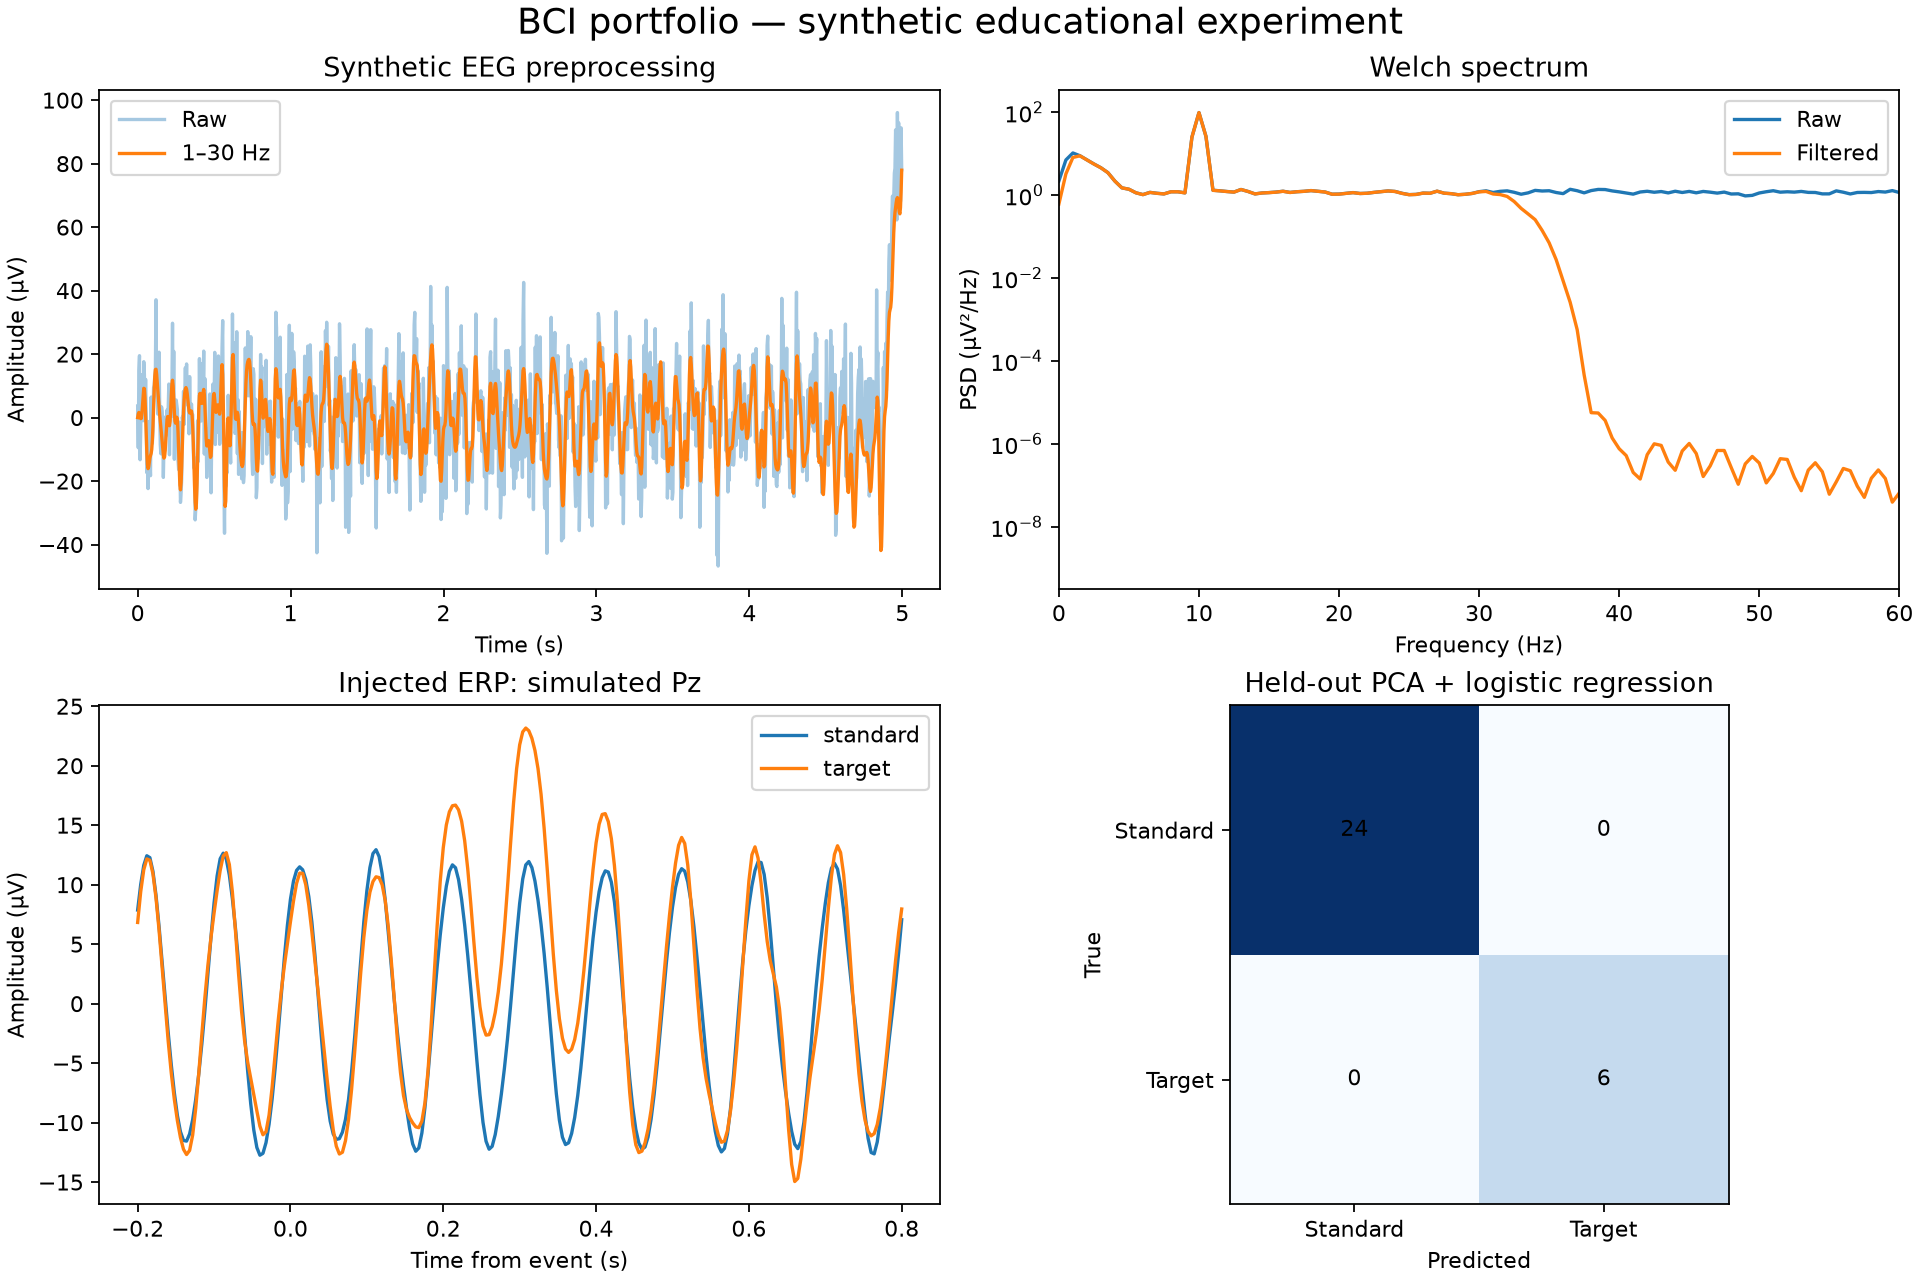
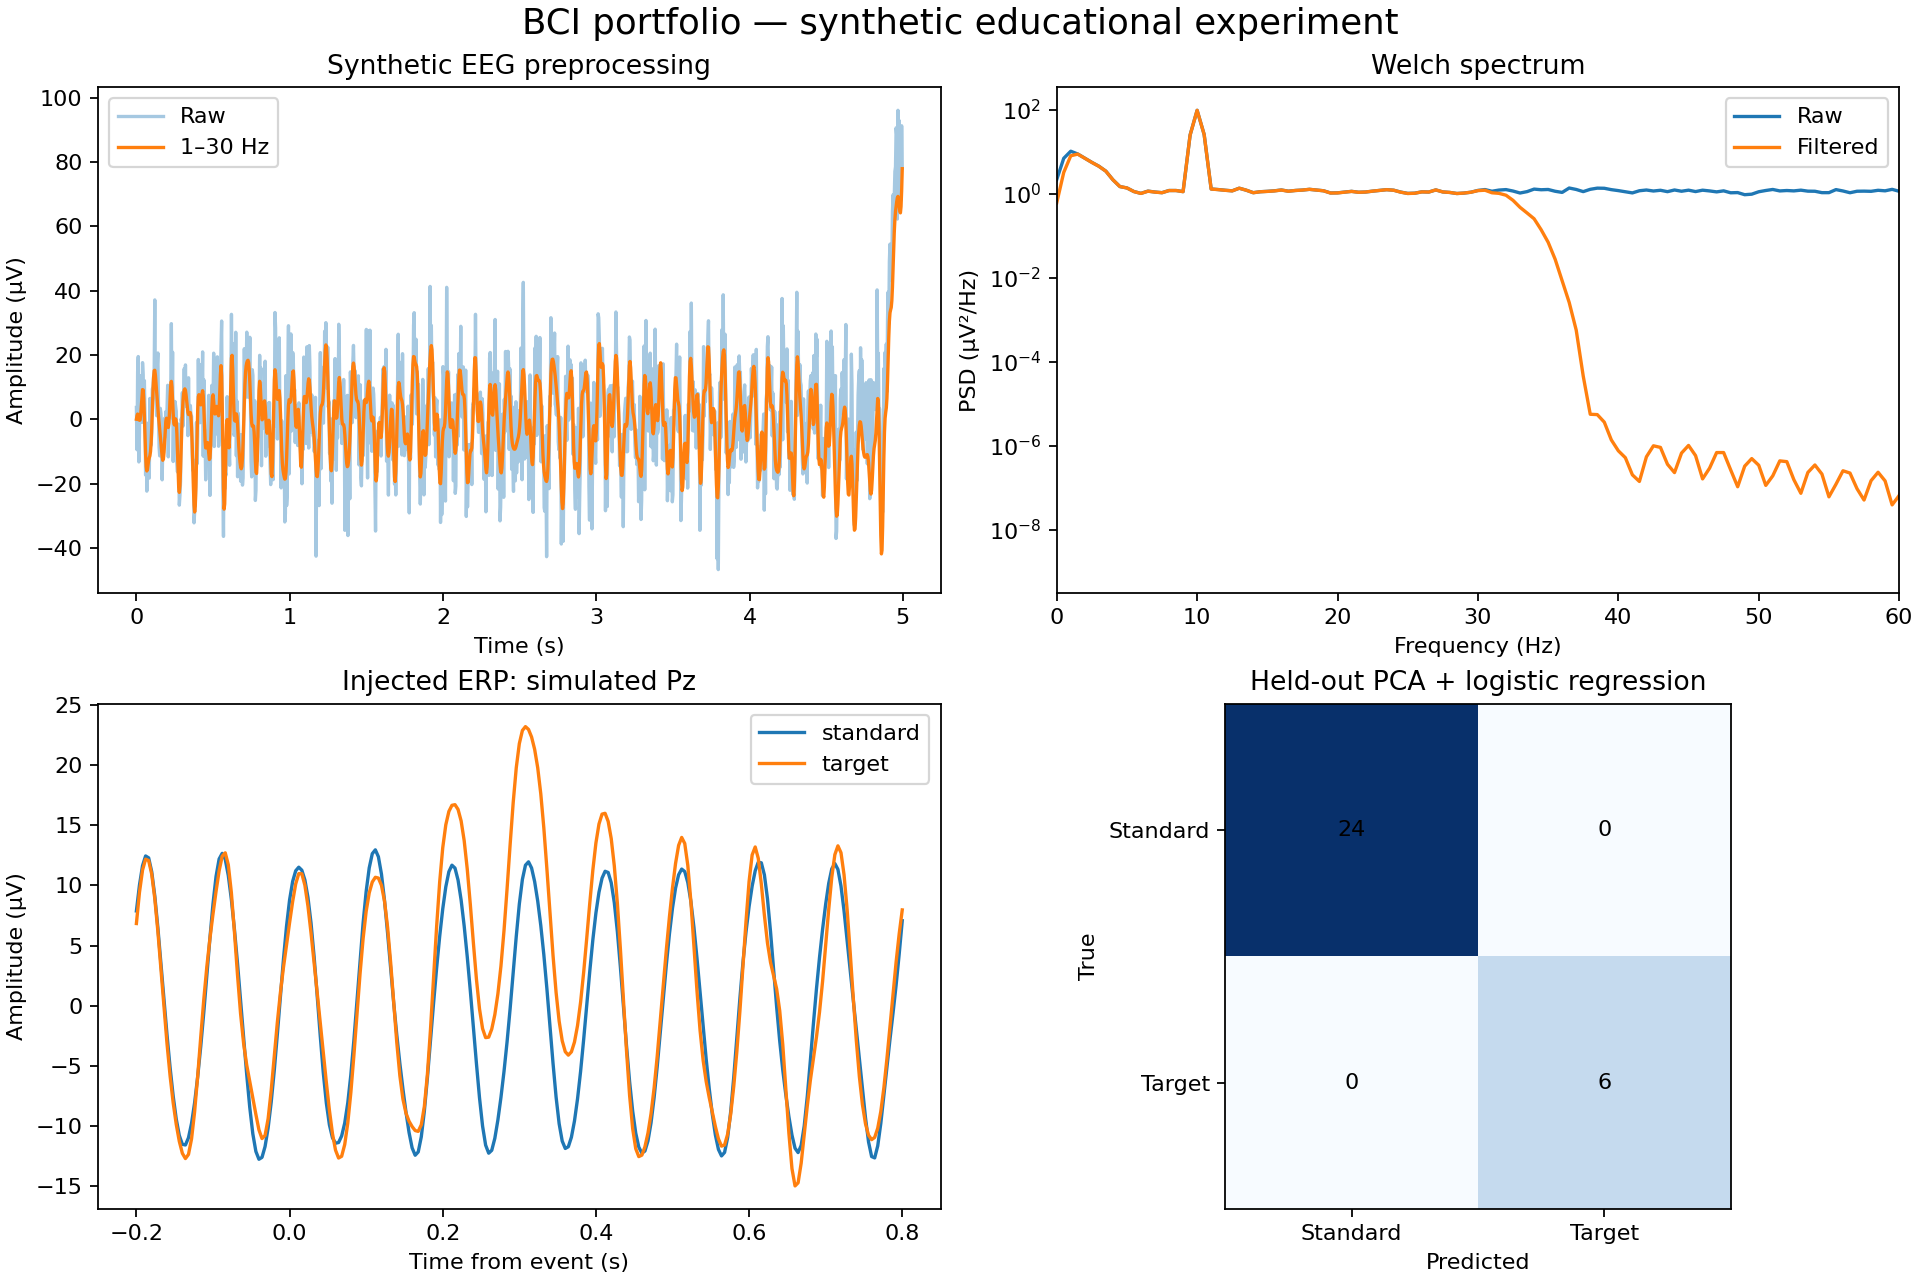
Add ROC curve and plain-language results

diff --git a/run_demo.py b/run_demo.py
@@ -15,7 +15,7 @@ from sklearn.dummy import DummyClassifier
 from sklearn.ensemble import RandomForestClassifier
 from sklearn.linear_model import LogisticRegression
 from sklearn.metrics import (accuracy_score, balanced_accuracy_score,
-                             confusion_matrix, f1_score, roc_auc_score)
+                             confusion_matrix, f1_score, roc_auc_score, roc_curve)
 from sklearn.model_selection import StratifiedKFold, cross_val_score, train_test_split
 from sklearn.pipeline import make_pipeline
 from sklearn.preprocessing import StandardScaler
@@ -88,11 +88,14 @@ def main():
         pred = model.predict(features[test])
         score = (model.decision_function(features[test]) if hasattr(model, "decision_function")
                  else model.predict_proba(features[test])[:, list(model.classes_).index(2)])
+        fpr, tpr, _ = roc_curve(y[test], score, pos_label=2)
         metrics[name] = {
             "accuracy": float(accuracy_score(y[test], pred)),
             "balanced_accuracy": float(balanced_accuracy_score(y[test], pred)),
             "target_f1": float(f1_score(y[test], pred, pos_label=2, zero_division=0)),
             "roc_auc": float(roc_auc_score(y[test] == 2, score)),
+            "roc_curve": {"false_positive_rate": fpr.tolist(),
+                          "true_positive_rate": tpr.tolist()},
             "cv_balanced_accuracy_mean": float(scores.mean()),
             "cv_balanced_accuracy_std": float(scores.std()),
             "confusion_matrix": confusion_matrix(y[test], pred, labels=[1, 2]).tolist(),
@@ -133,6 +136,30 @@ def main():
     fig.suptitle("BCI portfolio — synthetic educational experiment", fontsize=16)
     fig.savefig(OUT / "overview.png", dpi=160)
     plt.close(fig)
+    model_labels = {
+        "majority_baseline": "Always predict standard",
+        "temporal_pca_logistic": "PCA + logistic regression",
+        "temporal_linear_svm": "Linear SVM",
+        "bandpower_random_forest": "Bandpower + random forest",
+    }
+    fig, ax = plt.subplots(figsize=(8, 7), constrained_layout=True)
+    # Distinct line styles keep overlapping curves visible.
+    for (name, values), style in zip(metrics.items(), [":", "-", "--", "-."]):
+        curve = values["roc_curve"]
+        ax.plot(curve["false_positive_rate"], curve["true_positive_rate"],
+                linestyle=style, linewidth=2,
+                label=f"{model_labels[name]} (AUC = {values['roc_auc']:.3f})")
+    ax.plot([0, 1], [0, 1], color="gray", linestyle="--", alpha=.5,
+            label="Chance-level ranking (AUC = 0.500)", zorder=0)
+    ax.set(xlim=(-.02, 1.02), ylim=(-.02, 1.02),
+           xlabel="False alarm rate (standard trials flagged as targets)",
+           ylabel="Target detection rate (targets correctly flagged)",
+           title=f"ROC curves: {len(test)} held-out synthetic EEG trials")
+    ax.set_aspect("equal")
+    ax.grid(alpha=.2)
+    ax.legend(loc="lower right", fontsize=9)
+    fig.savefig(OUT / "roc_curve.png", dpi=160)
+    plt.close(fig)
     rows = ["| Model | Accuracy | Balanced accuracy | Target F1 | ROC AUC | Train CV BA (mean ± SD) |",
             "|---|---:|---:|---:|---:|---:|"]
     for name, v in metrics.items():
@@ -147,6 +174,26 @@ def main():
         + "Models and hyperparameters were fixed before evaluation. CV uses only the training partition. "
         + "The holdout compares these fixed baselines; it should not be reused for tuning. "
         + "These results assess this simulator only, not performance on human EEG.\n\n"
+        + "## Results in plain language\n\n"
+        + f"The PCA + logistic regression model correctly classified all {len(test)} test trials "
+        + f"({cm[1, 1]} targets and {cm[0, 0]} standard events); the linear SVM also achieved "
+        + f"{metrics['temporal_linear_svm']['accuracy']:.0%} accuracy. "
+        + f"Always guessing 'standard' achieved {metrics['majority_baseline']['accuracy']:.0%} accuracy "
+        + "because most events were standard, but it missed every target. "
+        + f"The bandpower model achieved {metrics['bandpower_random_forest']['accuracy']:.0%} accuracy "
+        + "and missed some targets, suggesting that the signal's shape over time was more useful "
+        + "here than its frequency summary. These strong scores come from a small, deliberately "
+        + "simplified simulation and do not show how well the models would work on real people.\n\n"
+        + "## Reading the ROC curve\n\n"
+        + "![ROC curves for all four models on held-out trials](roc_curve.png)\n\n"
+        + "Each curve shows the trade-off as we change how easily a model flags an event as a target: "
+        + "moving upward means finding more targets, while moving right means raising more false alarms. "
+        + "Curves closer to the top-left corner are better; AUC summarizes this ranking ability "
+        + "(1.0 means perfect separation on these test trials, while 0.5 means chance-level ranking). "
+        + f"The two time-based models both reached AUC {metrics['temporal_pca_logistic']['roc_auc']:.3f} "
+        + "and overlap on this chart; the bandpower model reached "
+        + f"{metrics['bandpower_random_forest']['roc_auc']:.3f}, and the always-standard baseline "
+        + "lies on the chance diagonal.\n\n"
         + "![Signal processing and evaluation](overview.png)\n", encoding="utf-8")
     print(json.dumps(report, indent=2))
 

diff --git a/results/RESULTS.md b/results/RESULTS.md
@@ -15,4 +15,14 @@ Shuffled-label training CV balanced accuracy: 0.450 ± 0.095. This is a single n
 
 Models and hyperparameters were fixed before evaluation. CV uses only the training partition. The holdout compares these fixed baselines; it should not be reused for tuning. These results assess this simulator only, not performance on human EEG.
 
+## Results in plain language
+
+The PCA + logistic regression model correctly classified all 30 test trials (6 targets and 24 standard events); the linear SVM also achieved 100% accuracy. Always guessing 'standard' achieved 80% accuracy because most events were standard, but it missed every target. The bandpower model achieved 83% accuracy and missed some targets, suggesting that the signal's shape over time was more useful here than its frequency summary. These strong scores come from a small, deliberately simplified simulation and do not show how well the models would work on real people.
+
+## Reading the ROC curve
+
+![ROC curves for all four models on held-out trials](roc_curve.png)
+
+Each curve shows the trade-off as we change how easily a model flags an event as a target: moving upward means finding more targets, while moving right means raising more false alarms. Curves closer to the top-left corner are better; AUC summarizes this ranking ability (1.0 means perfect separation on these test trials, while 0.5 means chance-level ranking). The two time-based models both reached AUC 1.000 and overlap on this chart; the bandpower model reached 0.774, and the always-standard baseline lies on the chance diagonal.
+
 ![Signal processing and evaluation](overview.png)

diff --git a/REPORT.md b/REPORT.md
@@ -41,6 +41,10 @@ See the generated [results table](results/RESULTS.md) and [full metrics and soft
 
 The majority baseline illustrates why accuracy alone can mislead when approximately 80% of trials are standards. Balanced accuracy gives equal weight to both class recalls, while target F1 exposes failure to detect the minority class. A strong score on injected synthetic responses verifies that this particular computational example is learnable; it is not evidence of successful decoding in a real participant.
 
+![ROC comparison on held-out synthetic trials](results/roc_curve.png)
+
+The ROC curve shows how finding more targets can also lead to more false alarms as the decision threshold changes; the top-left corner represents finding every target without any false alarms. AUC summarizes how well a model ranks targets above standard events: 1.0 means perfect separation on the test sample, and 0.5 means chance-level ranking. Here, both time-based models separated the test classes perfectly, while the bandpower model was less effective and the always-standard baseline provided no separation. These results describe a small simulation with an injected target response, so they do not establish performance on real human EEG. See the [plain-language results](results/RESULTS.md#results-in-plain-language) for the trial counts and model comparison.
+
 ## Review of the original labs
 
 - The original event labels are randomly assigned to a signal without a corresponding target ERP. Classification scores from those labels should not be described as validated P300 detection.

diff --git a/README.md b/README.md
@@ -8,6 +8,10 @@ A practical Python project exploring how EEG-like signals move from preprocessin
 
 ![Synthetic EEG processing and classification](results/overview.png)
 
+![ROC curves comparing four models on 30 held-out synthetic EEG trials](results/roc_curve.png)
+
+Curves closer to the top-left corner detect more targets with fewer false alarms. Both time-based models reached AUC 1.000 on these 30 simulated test trials; the bandpower model reached 0.774, while the always-standard baseline scored 0.500 (chance-level ranking). These results describe deliberately simplified synthetic data, not real-world EEG performance. See the [plain-language results](results/RESULTS.md#results-in-plain-language) for details.
+
 ## Skills demonstrated
 
 | Area | Evidence |
@@ -30,7 +34,7 @@ python -m pip install -r requirements.txt
 python run_demo.py
 ```
 
-The command regenerates `results/metrics.json`, `results/RESULTS.md`, and `results/overview.png`. It uses simulated data only, needs no EEG hardware or external dataset, and opens no plot windows.
+The command regenerates `results/metrics.json`, `results/RESULTS.md`, `results/overview.png`, and `results/roc_curve.png`. The [results page](results/RESULTS.md) includes a ROC comparison and a plain-language explanation of the findings. It uses simulated data only, needs no EEG hardware or external dataset, and opens no plot windows.
 
 ## Method at a glance
 
